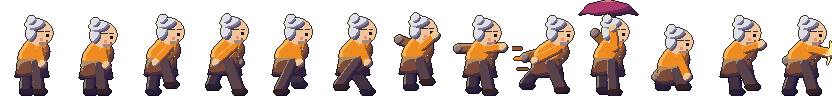
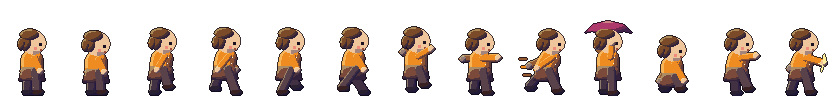
Sprites follow the new story: Maren gets younger, Wren stays ten
Done:
- Maren: white hair and glasses as the old shopkeeper, younger each stage, a small girl with
  plaits in 2.5D and 3D. Wren is the same ten-year-old in every stage (2D sprites and 3D model).
- Status file updated.

To do:
- Background scenes to match the story's places.

Notes for the others:
- Touched tools/assetgen/SpriteGen.cpp (drawPlayer) and src/render/Models3D.cpp (drawPlayer).

diff --git a/tools/assetgen/SpriteGen.cpp b/tools/assetgen/SpriteGen.cpp
@@ -683,12 +683,14 @@ void drawPlayer(Canvas& c, int who, int frame)
     if (g_era == 0) { drawPlayer1bit(c, gran, frame); return; }
     const int e = g_era;
     Pose p = playerPose(frame);
-    // Gran's hair greys and she stoops a little more each stage; Sam grows from a small child
-    // (4-shade) through a teenager (16-bit) to a grown man (2.5D).
-    const uint32_t granHair[ERA_COUNT] = {0, 0x5a4a44, 0x5a5468, 0x9a92a0, 0xc4c0d0, 0xe0dcea, 0xe8e6f0};
-    const float granHead[ERA_COUNT] = {0, 0.27f, 0.26f, 0.235f, 0.215f, 0.2f, 0.2f};
-    const float stoop[ERA_COUNT] = {0, 0, 0.015f, 0.03f, 0.045f, 0.06f, 0.06f};
-    const float samSize[ERA_COUNT] = {0, 0.78f, 0.8f, 0.88f, 0.95f, 1.0f, 1.0f};
+    // The run goes back through Maren's life while the graphics go forward: she is an old
+    // shopkeeper with white hair and glasses in the 4-shade stage, a mother, a bride, an
+    // apprentice of fifteen, then a small girl in the last two stages. Wren is always ten.
+    const uint32_t granHair[ERA_COUNT] = {0, 0xe0dcea, 0x8a7a74, 0x6a4632, 0x7a4a2c, 0x7a4a2c, 0x7a4a2c};
+    const float granHead[ERA_COUNT] = {0, 0.24f, 0.235f, 0.22f, 0.215f, 0.2f, 0.2f};
+    const float stoop[ERA_COUNT] = {0, 0.06f, 0.02f, 0, 0, 0, 0};
+    const float marenSize[ERA_COUNT] = {1, 1, 1, 1, 0.94f, 0.78f, 0.74f};
+    const float wrenSize = 0.8f;
 
     Col skin = pc(gran ? 0xf2c29b : 0xe9b58c, 3);
     Col top = gran ? pc(0xf08a24, 1) : pc(0x3c8cf0, 2);
@@ -698,17 +700,16 @@ void drawPlayer(Canvas& c, int who, int frame)
     Col hair = gran ? pc(granHair[e], 2) : pc(0x6b3e22, 0);
     Col cap = pc(0x22c4b0, 1);
     Col ink = pc(0x1c1420, 0);
-    if (e == 2) { hair = gran ? hex(0x5a5468) : hex(0x8c4a2f); cap = hex(0x1e8a4c); }
+    if (e == 2) { hair = gran ? hex(0x8a7a74) : hex(0x8c4a2f); cap = hex(0x1e8a4c); }
     if (e == 3) cap = hex(0x4a9a3a);
 
     float hr = granHead[e], st = gran ? stoop[e] : 0.0f;
-    if (!gran) {
-        float k = samSize[e];
+    float k = gran ? marenSize[e] : wrenSize;
+    if (k < 1.0f) {
         c.tk = k;
         c.tox = 0.5f * (1 - k);
         c.toy = 1.49f * (1 - k);
         hr = granHead[e] * (1.0f + (1.0f - k) * 0.9f);   // children have bigger heads for their size
-        if (e >= 5) hr = 0.19f;
     }
     const int tp = TILE_PX[e];
     const int eyePx = tp >= 64 ? 3 : (tp >= 32 ? 2 : 1);
@@ -779,15 +780,15 @@ void drawPlayer(Canvas& c, int who, int frame)
     if (gran) {
         c.ellipse(hx - hr * 0.64f, hy + hr * 0.02f, hr * 0.42f, hr * 0.66f, lit(hair));   // back of the hair
         c.ellipse(hx - hr * 0.32f, hy - hr * 0.66f, hr * 0.8f, hr * 0.44f, lit(hair));    // top
-        c.circle(hx - hr * 0.62f, hy - hr * 0.98f, hr * 0.36f, lit(hair));                // bun
+        if (e <= 3) c.circle(hx - hr * 0.62f, hy - hr * 0.98f, hr * 0.36f, lit(hair));    // bun
+        else c.ellipse(hx - hr * 1.02f, hy + hr * 0.1f, hr * 0.26f, hr * 0.5f, lit(hair));   // plait
     } else {
         c.ellipse(hx - hr * 0.64f, hy + hr * 0.0f, hr * 0.42f, hr * 0.58f, lit(hair));
         c.rect(hx - hr * 1.02f, hy - hr * 1.12f, hr * 1.86f, hr * 0.7f, lit(cap), hr * 0.32f);   // cap
         c.rect(hx + hr * 0.3f, hy - hr * 0.6f, hr * 0.98f, hr * 0.24f, solid(farSide(cap)), hr * 0.1f);   // brim
-        if (e >= 5) c.rect(hx + hr * 0.05f, hy + hr * 0.62f, hr * 0.5f, hr * 0.2f, solid(farSide(hair)), hr * 0.08f);   // stubble
     }
     // face: one dark eye, then glasses for Gran, a mouth and cheek from 16-bit on
-    if (gran && e >= 3) {   // glasses: a thin rim over the eye and the arm back to the ear
+    if (gran && e >= 1 && e <= 2) {   // reading glasses, while she is old: a thin rim over the eye and the arm back to the ear
         Col frameC = pc(0x3a2a3a, 0);
         c.rect(ex - 1.0f / tp, ey - (eyePx + 1.0f) / tp, (eyePx + 2.0f) / tp, 1.0f / tp, solid(frameC));
         c.rect(hx - hr * 0.3f, ey - (eyePx + 1.0f) / tp, hr * 0.62f, 1.0f / tp, solid(frameC));

diff --git a/src/render/Models3D.cpp b/src/render/Models3D.cpp
@@ -390,13 +390,15 @@ void Models3D::drawPlayer(Game& g, int p)
     };
     Color skin = col(gran ? 0xf2c29b : 0xe9b58c), top = col(gran ? 0xf08a24 : 0x3c8cf0);
     Color legs = col(gran ? 0x6b4a3a : 0x2b3f6b), shoes = col(gran ? 0x4a2e22 : 0xf4f4f4);
-    Color hair = col(gran ? 0xdcd8ea : 0x6b3e22), dark = col(0x1c1420);
+    // at the millpond Maren is a small girl with brown plaits; Wren, ten, is a little taller
+    Color hair = col(gran ? 0x7a4a2c : 0x6b3e22), dark = col(0x1c1420);
+    const float k = gran ? 0.74f : 0.8f;
 
     float yaw = pl.facing > 0 ? -0.52f : PI + 0.52f;
     float lean = 0;
     if (pl.dashTime > 0) lean = -0.35f;
     float crouch = pl.pounding ? 0.12f : 0.0f;
-    Matrix root = then(then(MatrixRotateZ(lean), MatrixRotateY(yaw)), T(pl.cx(), Y3(pl.bottom()) - crouch * 0.5f, 0.2f));
+    Matrix root = then(then(then(S(k, k, k), MatrixRotateZ(lean)), MatrixRotateY(yaw)), T(pl.cx(), Y3(pl.bottom()) - crouch * 0.5f, 0.2f));
     auto at = [&](Matrix local) { return then(local, root); };
 
     // walk cycle
@@ -450,9 +452,8 @@ void Models3D::drawPlayer(Game& g, int p)
         part(sphere_, at(then(S(0.025f, 0.035f, 0.025f), T(0.19f, hy + 0.04f, e * 0.08f))), dark);
     if (gran) {
         part(sphere_, at(then(S(0.22f, 0.17f, 0.22f), T(-0.03f, hy + 0.08f, 0))), hair);
-        part(sphere_, at(then(S(0.1f, 0.09f, 0.1f), T(-0.1f, hy + 0.25f, 0))), hair);    // bun
-        for (int e = -1; e <= 1; e += 2)   // glasses
-            part(torus_, at(then(then(S(0.035f, 0.035f, 0.035f), MatrixRotateZ(PI / 2)), T(0.2f, hy + 0.04f, e * 0.08f))), dark);
+        for (int e = -1; e <= 1; e += 2)   // plaits
+            part(cyl_, at(then(S(0.045f, 0.2f, 0.045f), T(-0.12f, hy - 0.22f, e * 0.17f))), hair);
     } else {
         part(sphere_, at(then(S(0.22f, 0.15f, 0.22f), T(-0.04f, hy + 0.06f, 0))), hair);
         Color cap = col(0x22c4b0);

diff --git a/notes/rafale-stages-claude.md b/notes/rafale-stages-claude.md
@@ -3,6 +3,15 @@
 Thread: "Add graphics evolution stages". Branch: `claude/project-thread-70pj0g`, built on Sohan's
 `claude-sohan-upgrade` (c349652), which builds on Rafale's cloud Claude's game. Nothing pushed to main.
 
+## 2026-11-07 (night): merged Sohan's new story into my branch (PR #5)
+
+- Merged main ("The Four Minutes") into my branch. Hud.cpp keeps the per-stage HUD and now shows
+  the story line in its banner box; the hint is spoken by player 1 by name (Maren).
+- Sprites follow the story: Maren gets younger each stage (white hair and glasses in 4-shade,
+  a small girl with plaits by 2.5D and 3D); Wren is ten in every stage. Same in Models3D.
+- Not done: background scenes still show my places (garden, town...), not the story's places
+  (shop, harbour, wedding, apprentice, long winter, millpond).
+
 ## 2026-11-07 (evening): engineer's review, worked through with helpers
 
 raf forwarded a graphics engineer's review (stages looked AI-made). Done, in its fix order:
